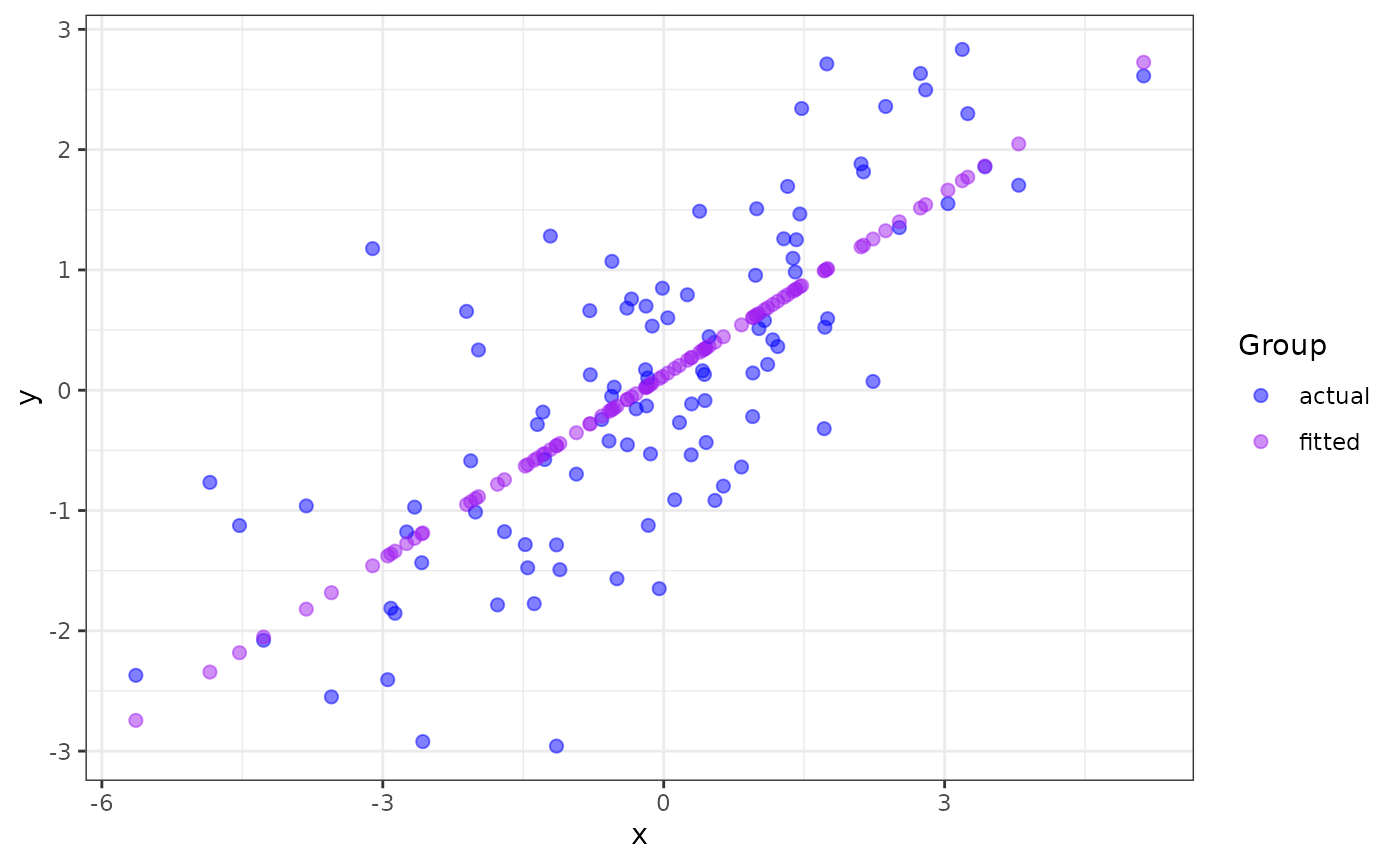
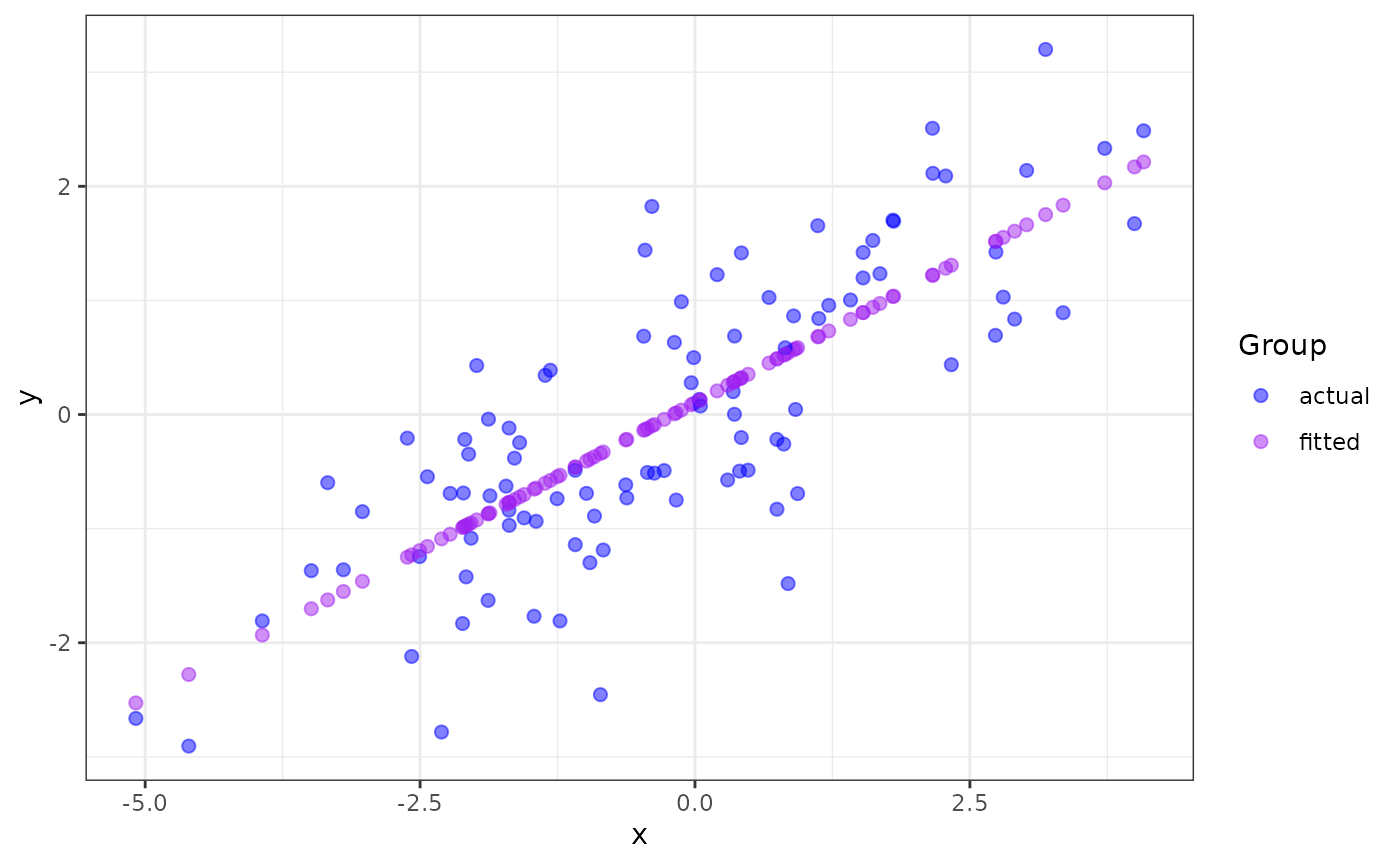
Built site for ggmatplot: 0.1.2@439ce92

diff --git a/articles/ggmatplot.html b/articles/ggmatplot.html
@@ -103,7 +103,7 @@
 <span class="va">x</span> <span class="op">&lt;-</span> <span class="fu"><a href="https://rdrr.io/r/base/c.html" class="external-link">c</a></span><span class="op">(</span><span class="fu"><a href="https://rdrr.io/r/stats/Normal.html" class="external-link">rnorm</a></span><span class="op">(</span><span class="fl">100</span>, sd <span class="op">=</span> <span class="fl">2</span><span class="op">)</span><span class="op">)</span>
 
 <span class="fu"><a href="https://rdrr.io/r/utils/head.html" class="external-link">head</a></span><span class="op">(</span><span class="va">x</span><span class="op">)</span>
-<span class="co">#&gt; [1] -0.9326507  0.2976451  2.3701195  0.4143191  3.2469098 -0.3440615</span>
+<span class="co">#&gt; [1] -1.5948949 -3.3401330 -0.6199673  2.1634536 -2.0359706  2.3313997</span>
 
 <span class="co"># matrix z</span>
 <span class="va">y</span> <span class="op">&lt;-</span> <span class="va">x</span> <span class="op">*</span> <span class="fl">0.5</span> <span class="op">+</span> <span class="fu"><a href="https://rdrr.io/r/stats/Normal.html" class="external-link">rnorm</a></span><span class="op">(</span><span class="fl">100</span>, sd <span class="op">=</span> <span class="fl">1</span><span class="op">)</span>
@@ -113,12 +113,12 @@
 
 <span class="fu"><a href="https://rdrr.io/r/utils/head.html" class="external-link">head</a></span><span class="op">(</span><span class="va">z</span><span class="op">)</span>
 <span class="co">#&gt;       actual     fitted</span>
-<span class="co">#&gt; 1 -0.6974610 -0.3533872</span>
-<span class="co">#&gt; 2 -0.1139663  0.2720382</span>
-<span class="co">#&gt; 3  2.3588900  1.3255883</span>
-<span class="co">#&gt; 4  0.1616609  0.3313499</span>
-<span class="co">#&gt; 5  2.2990850  1.7713079</span>
-<span class="co">#&gt; 6  0.7582615 -0.0541757</span></code></pre></div>
+<span class="co">#&gt; 1 -0.2466891 -0.7222101</span>
+<span class="co">#&gt; 2 -0.5974109 -1.6249525</span>
+<span class="co">#&gt; 3 -0.7308159 -0.2179188</span>
+<span class="co">#&gt; 4  2.1136479  1.2218344</span>
+<span class="co">#&gt; 5 -1.0839556 -0.9503610</span>
+<span class="co">#&gt; 6  0.4365498  1.3087063</span></code></pre></div>
 <p><code>ggmatplot</code> plots vector <code>x</code> against each column of matrix <code>z</code> using the default <code>plot_type = "point"</code>. This will be represented on the resulting plot as two groups, identified using different shapes and colors.</p>
 <div class="sourceCode" id="cb2"><pre class="downlit sourceCode r">
 <code class="sourceCode R"><span class="kw"><a href="https://rdrr.io/r/base/library.html" class="external-link">library</a></span><span class="op">(</span><span class="va"><a href="https://github.com/xuan-liang/ggmatplot" class="external-link">ggmatplot</a></span><span class="op">)</span>

diff --git a/news/index.html b/news/index.html
@@ -62,7 +62,7 @@
 
     <div class="section level2"><h2 class="page-header" data-toc-text="development version" id="ggmatplot-development-version">ggmatplot (development version)<a class="anchor" aria-label="anchor" href="#ggmatplot-development-version"></a></h2></div>
     <div class="section level2">
-<h2 class="page-header" data-toc-text="0.1.0" id="ggmatplot-010">ggmatplot 0.1.0<small>2021-12-08</small><a class="anchor" aria-label="anchor" href="#ggmatplot-010"></a></h2>
+<h2 class="page-header" data-toc-text="0.1.1" id="ggmatplot-011">ggmatplot 0.1.1<small>2022-01-11</small><a class="anchor" aria-label="anchor" href="#ggmatplot-011"></a></h2>
 <ul><li>This old version has been archived on CRAN.</li></ul></div>
   </div>
 
